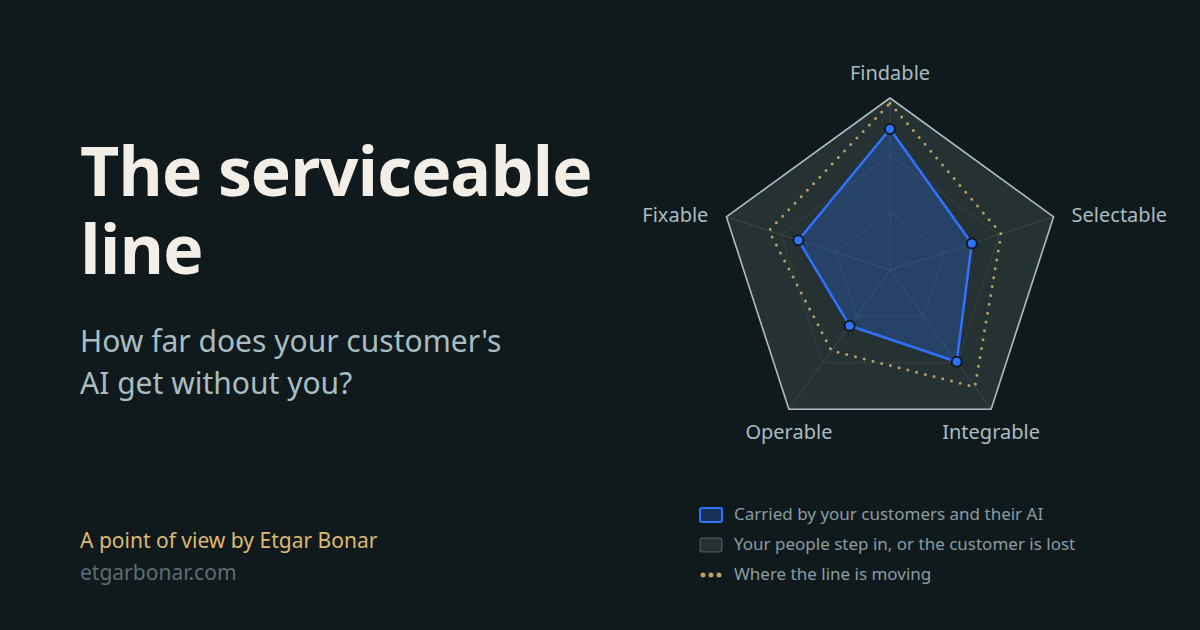
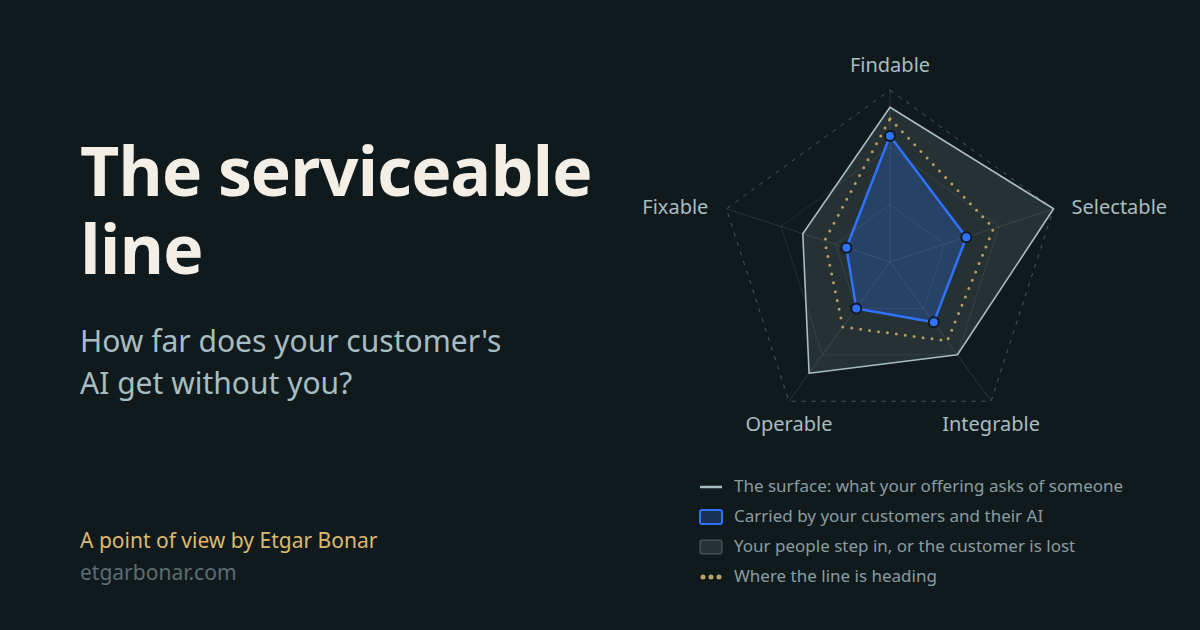
Serviceable line: one hero shape on both pages and the card, one legend
The main hero and card drew a perfect pentagon (a full surface) while the
shapes hero drew a different, lopsided offering without gold. All three now
draw the same offering from one HERO definition in build-line-shapes.py: an
uneven surface inside the dashed maximum, the blue line inside it, and the
gold outline, which is checked never to pass the surface.

Both heroes and the card carry the same four-item legend: the surface (what
your offering asks of someone), carried by your customers and their AI, your
people step in or the customer is lost, and where the line is heading. Gold
is "heading" rather than "moving" everywhere, to read as direction. Captions
rewritten to match; card served at ?v=7 with a new og:image:alt.

diff --git a/serviceable-line/index.html b/serviceable-line/index.html
@@ -25,12 +25,12 @@
   <meta property="og:title" content="The Serviceable Line: How Far Does Your Customer's AI Get Without You?">
   <meta property="og:description" content="How far does your customer's AI get without you? The serviceable line is how far your customers, and increasingly their AI, get with your offering on their own.">
   <meta property="og:url" content="https://etgarbonar.com/serviceable-line/">
-  <meta property="og:image" content="https://etgarbonar.com/assets/serviceable-line-card.png?v=6">
-  <meta property="og:image:alt" content="The Serviceable Line: How far does your customer's AI get without you? A pentagon with one spoke per layer, Findable, Selectable, Integrable, Operable and Fixable. The blue shape is how far your customers and their AI get on each; past it, your people step in or the customer is lost; a gold dotted outline shows where the line is moving. A point of view by Etgar Bonar">
+  <meta property="og:image" content="https://etgarbonar.com/assets/serviceable-line-card.png?v=7">
+  <meta property="og:image:alt" content="The Serviceable Line: How far does your customer's AI get without you? A five-spoke chart, one spoke per layer: Findable, Selectable, Integrable, Operable and Fixable. The solid outline is what the offering asks of someone on each layer; the blue shape is how far your customers and their AI get; past it, your people step in or the customer is lost; a gold dotted outline shows where the line is heading. A point of view by Etgar Bonar">
   <meta name="twitter:card" content="summary_large_image">
   <meta name="twitter:title" content="The Serviceable Line: How Far Does Your Customer's AI Get Without You?">
   <meta name="twitter:description" content="How far does your customer's AI get without you? The serviceable line is how far your customers, and increasingly their AI, get with your offering on their own.">
-  <meta name="twitter:image" content="https://etgarbonar.com/assets/serviceable-line-card.png?v=6">
+  <meta name="twitter:image" content="https://etgarbonar.com/assets/serviceable-line-card.png?v=7">
   <script type="application/ld+json">
   {
     "@context": "https://schema.org",
@@ -90,7 +90,7 @@
         </div>
         <figure class="line-diagram">
 <!-- shapes:main-hero:start -->
-          <svg viewBox="-296 -214 592 424" role="img" aria-label="An illustrative offering with all five layers in depth. Findable: long surface, almost all of it carried alone; Selectable: long surface, about half of it carried alone; Integrable: long surface, most of it carried alone; Operable: long surface, about half of it carried alone; Fixable: long surface, most of it carried alone. A gold dotted outline further out shows where the line is moving.">
+          <svg viewBox="-296 -214 592 424" role="img" aria-label="An illustrative offering. Findable: long surface, almost all of it carried alone; Selectable: long surface, about half of it carried alone; Integrable: long surface, most of it carried alone; Operable: long surface, about half of it carried alone; Fixable: medium surface, about half of it carried alone. A gold dotted outline further out shows where the line is heading.">
             <polygon class="ld-ring" points="0.0,-56.0 53.3,-17.3 32.9,45.3 -32.9,45.3 -53.3,-17.3"/>
             <polygon class="ld-ring" points="0.0,-112.0 106.5,-34.6 65.8,90.6 -65.8,90.6 -106.5,-34.6"/>
             <polygon class="ld-ring ld-max" points="0.0,-168.0 159.8,-51.9 98.7,135.9 -98.7,135.9 -159.8,-51.9"/>
@@ -99,14 +99,14 @@
             <line class="ld-spoke" x1="0" y1="0" x2="98.7" y2="135.9"/>
             <line class="ld-spoke" x1="0" y1="0" x2="-98.7" y2="135.9"/>
             <line class="ld-spoke" x1="0" y1="0" x2="-159.8" y2="-51.9"/>
-            <polygon class="ld-surface" points="0.0,-168.0 159.8,-51.9 98.7,135.9 -98.7,135.9 -159.8,-51.9"/>
-            <polygon class="ld-move" points="0.0,-163.0 108.6,-35.3 82.9,114.2 -57.3,78.8 -118.2,-38.4"/>
-            <polygon class="ld-line" points="0.0,-137.8 79.9,-26.0 65.2,89.7 -39.5,54.4 -89.5,-29.1"/>
-            <circle class="ld-vtx" cx="0.0" cy="-137.8" r="5"/>
-            <circle class="ld-vtx" cx="79.9" cy="-26.0" r="5"/>
-            <circle class="ld-vtx" cx="65.2" cy="89.7" r="5"/>
-            <circle class="ld-vtx" cx="-39.5" cy="54.4" r="5"/>
-            <circle class="ld-vtx" cx="-89.5" cy="-29.1" r="5"/>
+            <polygon class="ld-surface" points="0.0,-151.2 159.8,-51.9 65.8,90.6 -79.0,108.7 -85.2,-27.7"/>
+            <polygon class="ld-move" points="0.0,-140.0 101.2,-32.9 56.0,77.0 -46.1,63.4 -63.9,-20.8"/>
+            <polygon class="ld-line" points="0.0,-123.2 74.6,-24.2 42.8,58.9 -32.9,45.3 -42.6,-13.8"/>
+            <circle class="ld-vtx" cx="0.0" cy="-123.2" r="5"/>
+            <circle class="ld-vtx" cx="74.6" cy="-24.2" r="5"/>
+            <circle class="ld-vtx" cx="42.8" cy="58.9" r="5"/>
+            <circle class="ld-vtx" cx="-32.9" cy="45.3" r="5"/>
+            <circle class="ld-vtx" cx="-42.6" cy="-13.8" r="5"/>
             <text class="ld-name" x="0.0" y="-186.0" text-anchor="middle">Findable</text>
             <text class="ld-name" x="177.8" y="-46.9" text-anchor="start">Selectable</text>
             <text class="ld-name" x="98.7" y="165.9" text-anchor="middle">Integrable</text>
@@ -115,11 +115,12 @@
           </svg>
 <!-- shapes:main-hero:end -->
           <ul class="ld-legend">
+            <li class="ld-key-surface">The surface: what your offering asks of someone</li>
             <li class="ld-key-line">Carried by your customers and their&nbsp;AI</li>
             <li class="ld-key-gap">Your people step in, or the customer is lost</li>
-            <li class="ld-key-move">Where the line is moving</li>
+            <li class="ld-key-move">Where the line is heading</li>
           </ul>
-          <p class="ld-note">Illustrative, for an offering with all five layers in depth. Not every offering has them: <a href="/serviceable-line/shapes/">see the shape of the line</a>. Each axis is one layer: Findable, Selectable, Integrable, Operable, Fixable. The blue shape is the serviceable line: how far your customers, and increasingly their AI, get with your offering on their own. Outside it, your people step in or the customer is lost. The gold marks the direction the line is moving.</p>
+          <p class="ld-note">Illustrative. Each axis is one layer: Findable, Selectable, Integrable, Operable, Fixable. The solid outline is what this offering asks of someone on each layer, and no two offerings ask the same: <a href="/serviceable-line/shapes/">see the shape of the line</a>. The blue shape is the serviceable line: how far your customers, and increasingly their AI, get with your offering on their own. Past it, your people step in or the customer is lost. The gold marks where the line is heading.</p>
         </figure>
       </header>
 

diff --git a/serviceable-line/shapes/index.html b/serviceable-line/shapes/index.html
@@ -77,7 +77,7 @@
         </div>
         <figure class="line-diagram shape-hero">
 <!-- shapes:hero:start -->
-          <svg viewBox="-296 -214 592 424" role="img" aria-label="An illustrative offering. Findable: long surface, almost all of it carried alone; Selectable: long surface, about half of it carried alone; Integrable: medium surface, most of it carried alone; Operable: long surface, about half of it carried alone; Fixable: medium surface, about half of it carried alone.">
+          <svg viewBox="-296 -214 592 424" role="img" aria-label="An illustrative offering. Findable: long surface, almost all of it carried alone; Selectable: long surface, about half of it carried alone; Integrable: long surface, most of it carried alone; Operable: long surface, about half of it carried alone; Fixable: medium surface, about half of it carried alone. A gold dotted outline further out shows where the line is heading.">
             <polygon class="ld-ring" points="0.0,-56.0 53.3,-17.3 32.9,45.3 -32.9,45.3 -53.3,-17.3"/>
             <polygon class="ld-ring" points="0.0,-112.0 106.5,-34.6 65.8,90.6 -65.8,90.6 -106.5,-34.6"/>
             <polygon class="ld-ring ld-max" points="0.0,-168.0 159.8,-51.9 98.7,135.9 -98.7,135.9 -159.8,-51.9"/>
@@ -86,13 +86,14 @@
             <line class="ld-spoke" x1="0" y1="0" x2="98.7" y2="135.9"/>
             <line class="ld-spoke" x1="0" y1="0" x2="-98.7" y2="135.9"/>
             <line class="ld-spoke" x1="0" y1="0" x2="-159.8" y2="-51.9"/>
-            <polygon class="ld-surface" points="0.0,-134.4 149.1,-48.5 46.1,63.4 -72.4,99.7 -53.3,-17.3"/>
-            <polygon class="ld-line" points="0.0,-112.0 79.9,-26.0 26.3,36.2 -36.2,49.8 -21.3,-6.9"/>
-            <circle class="ld-vtx" cx="0.0" cy="-112.0" r="5"/>
-            <circle class="ld-vtx" cx="79.9" cy="-26.0" r="5"/>
-            <circle class="ld-vtx" cx="26.3" cy="36.2" r="5"/>
-            <circle class="ld-vtx" cx="-36.2" cy="49.8" r="5"/>
-            <circle class="ld-vtx" cx="-21.3" cy="-6.9" r="5"/>
+            <polygon class="ld-surface" points="0.0,-151.2 159.8,-51.9 65.8,90.6 -79.0,108.7 -85.2,-27.7"/>
+            <polygon class="ld-move" points="0.0,-140.0 101.2,-32.9 56.0,77.0 -46.1,63.4 -63.9,-20.8"/>
+            <polygon class="ld-line" points="0.0,-123.2 74.6,-24.2 42.8,58.9 -32.9,45.3 -42.6,-13.8"/>
+            <circle class="ld-vtx" cx="0.0" cy="-123.2" r="5"/>
+            <circle class="ld-vtx" cx="74.6" cy="-24.2" r="5"/>
+            <circle class="ld-vtx" cx="42.8" cy="58.9" r="5"/>
+            <circle class="ld-vtx" cx="-32.9" cy="45.3" r="5"/>
+            <circle class="ld-vtx" cx="-42.6" cy="-13.8" r="5"/>
             <text class="ld-name" x="0.0" y="-186.0" text-anchor="middle">Findable</text>
             <text class="ld-name" x="177.8" y="-46.9" text-anchor="start">Selectable</text>
             <text class="ld-name" x="98.7" y="165.9" text-anchor="middle">Integrable</text>
@@ -102,10 +103,11 @@
 <!-- shapes:hero:end -->
           <ul class="ld-legend">
             <li class="ld-key-surface">The surface: what your offering asks of someone</li>
-            <li class="ld-key-line">The line: how far your customers and their&nbsp;AI get alone</li>
-            <li class="ld-key-gap">The gap: your people step in, or the customer is lost</li>
+            <li class="ld-key-line">Carried by your customers and their&nbsp;AI</li>
+            <li class="ld-key-gap">Your people step in, or the customer is lost</li>
+            <li class="ld-key-move">Where the line is heading</li>
           </ul>
-          <p class="ld-note">Illustrative. The dashed outline is the most any offering can ask on a layer. This one asks a lot on two layers and little on Fixable.</p>
+          <p class="ld-note">Illustrative, the same offering as on the main page. The dashed outline is the most any offering can ask on a layer; this one asks the most on Selectable and the least on Fixable. The gold marks where the line is heading.</p>
         </figure>
       </header>
 

diff --git a/scripts/build-line-shapes.py b/scripts/build-line-shapes.py
@@ -53,15 +53,14 @@ GROWTH = [
      DRILL[1]),
 ]
 
-# The main page hero: an offering with all five layers in depth, so the surface is full, plus the
-# gold outline for where the line is moving. Same drawing code as the sub-page, so the two heroes
-# follow one set of rules: dashed maximum, solid surface, grey gap, blue line.
-MAIN_LINE = [2.46, 1.5, 1.98, 1.2, 1.68]
-MAIN_HERO = ([3, 3, 3, 3, 3], MAIN_LINE, MAIN_LINE)
-MAIN_MOVE = [2.91, 2.04, 2.52, 1.74, 2.22]
-
-# the shapes hero introduces the idea, so it shows no work carried by others
-HERO = ([2.4, 2.8, 1.4, 2.2, 1.0], [2.0, 1.5, 0.8, 1.1, 0.4], [2.0, 1.5, 0.8, 1.1, 0.4])
+# One hero shape, used by the main page hero, the shapes page hero and the main social card, so
+# every hero drawing is the same offering: an uneven surface inside the dashed maximum, the blue
+# line inside it, and the gold outline for where the line is heading (never past the surface).
+HERO_SURFACE = [2.7, 3.0, 2.0, 2.4, 1.6]
+HERO_LINE = [2.2, 1.4, 1.3, 1.0, 0.8]
+HERO_MOVE = [2.5, 1.9, 1.7, 1.4, 1.2]
+HERO = (HERO_SURFACE, HERO_LINE, HERO_LINE)
+assert all(l <= m <= su for l, m, su in zip(HERO_LINE, HERO_MOVE, HERO_SURFACE))
 
 
 def pt(i, v, r):
@@ -110,7 +109,7 @@ def svg(name, surface, line, carried, *, prefix, r, viewbox, font_gap, old=None,
     p = prefix
     label = describe(name, surface, line, carried)
     if move:
-        label += " A gold dotted outline further out shows where the line is moving."
+        label += " A gold dotted outline further out shows where the line is heading."
     out = [f'<svg viewBox="{viewbox}" role="img" aria-label="{label}">']
     for f in (1, 2):
         out.append(f'  <polygon class="{p}-ring" points="{poly([f] * 5, r)}"/>')
@@ -163,14 +162,13 @@ HERO_BOX = dict(prefix="ld", r=168, viewbox="-296 -214 592 424", font_gap=18)
 def blocks():
     return {
         PAGE: {
-            "hero": svg("An illustrative offering", *HERO, **HERO_BOX),
+            "hero": svg("An illustrative offering", *HERO, move=HERO_MOVE, **HERO_BOX),
             "grid": grid(OFFERINGS),
             "segments": grid(SEGMENTS, "shape-grid shape-pair"),
             "growth": grid(GROWTH, "shape-grid shape-pair"),
         },
         MAIN_PAGE: {
-            "main-hero": svg("An illustrative offering with all five layers in depth", *MAIN_HERO,
-                             move=MAIN_MOVE, **HERO_BOX),
+            "main-hero": svg("An illustrative offering", *HERO, move=HERO_MOVE, **HERO_BOX),
         },
     }
 
@@ -214,6 +212,7 @@ def legend_row(x, y, kind, text):
     swatch = {
         "line": f'<rect x="{x}" y="{y - 12}" width="22" height="14" rx="2" fill="{BLUE}" fill-opacity=".26" stroke="{BLUE}" stroke-width="2"/>',
         "gap": f'<rect x="{x}" y="{y - 12}" width="22" height="14" rx="2" fill="{MINT}" fill-opacity=".14" stroke="{MINT}" stroke-opacity=".4"/>',
+        "surface": f'<path d="M{x} {y - 5}H{x + 22}" stroke="{MINT}" stroke-width="2.5"/>',
         "move": f'<path d="M{x + 3} {y - 5}H{x + 21}" stroke="{GOLD}" stroke-width="5" stroke-linecap="round" stroke-dasharray="0 8" opacity=".85"/>',
     }[kind]
     return f'  {swatch}\n  <text x="{x + 34}" y="{y}" {FONT} font-size="17" fill="{MINT}" opacity=".8">{text}</text>'
@@ -221,10 +220,11 @@ def legend_row(x, y, kind, text):
 
 def main_card():
     body = "\n".join([
-        card_pentagon(890, 270, 172, MAIN_HERO[0], MAIN_HERO[1], move=MAIN_MOVE),
-        legend_row(700, 520, "line", "Carried by your customers and their AI"),
-        legend_row(700, 550, "gap", "Your people step in, or the customer is lost"),
-        legend_row(700, 580, "move", "Where the line is moving"),
+        card_pentagon(890, 262, 172, HERO_SURFACE, HERO_LINE, move=HERO_MOVE),
+        legend_row(700, 492, "surface", "The surface: what your offering asks of someone"),
+        legend_row(700, 522, "line", "Carried by your customers and their AI"),
+        legend_row(700, 552, "gap", "Your people step in, or the customer is lost"),
+        legend_row(700, 582, "move", "Where the line is heading"),
         f'  <text x="80" y="196" {FONT} font-size="68" font-weight="700" letter-spacing="-1" fill="{PAPER}">The serviceable</text>',
         f'  <text x="80" y="274" {FONT} font-size="68" font-weight="700" letter-spacing="-1" fill="{PAPER}">line</text>',
         f'  <text x="80" y="352" {FONT} font-size="30" fill="{MINT}">How far does your customer\'s</text>',
@@ -233,9 +233,9 @@ def main_card():
         f'  <text x="80" y="580" {FONT} font-size="21" fill="{MINT}" opacity=".5">etgarbonar.com</text>',
     ])
     return card_svg("The serviceable line",
-                    "A pentagon with one spoke per layer: Findable, Selectable, Integrable, Operable and Fixable. "
-                    "The blue shape is how far your customers and their AI get on each; past it, your people step in or the customer is lost; "
-                    "a gold dotted outline further out shows where the line is moving. How far does your customer's AI get without you? "
+                    "A five-spoke chart, one spoke per layer: Findable, Selectable, Integrable, Operable and Fixable. "
+                    "The solid outline is what the offering asks of someone on each layer; the blue shape is how far your customers and their AI get; "
+                    "past it, your people step in or the customer is lost; a gold dotted outline shows where the line is heading. How far does your customer's AI get without you? "
                     "A point of view by Etgar Bonar.", body)
 
 

diff --git a/serviceable-line/index.md b/serviceable-line/index.md
@@ -14,11 +14,12 @@ The serviceable line is how far your customers, and increasingly their AI, get w
 
 Published 29 August 2026 · Updated 3 October 2026 · 8 minute read
 
+- The surface: what your offering asks of someone
 - Carried by your customers and their AI
 - Your people step in, or the customer is lost
-- Where the line is moving
+- Where the line is heading
 
-Illustrative, for an offering with all five layers in depth. Not every offering has them: [see the shape of the line](https://etgarbonar.com/serviceable-line/shapes/). Each axis is one layer: Findable, Selectable, Integrable, Operable, Fixable. The blue shape is the serviceable line: how far your customers, and increasingly their AI, get with your offering on their own. Outside it, your people step in or the customer is lost. The gold marks the direction the line is moving.
+Illustrative. Each axis is one layer: Findable, Selectable, Integrable, Operable, Fixable. The solid outline is what this offering asks of someone on each layer, and no two offerings ask the same: [see the shape of the line](https://etgarbonar.com/serviceable-line/shapes/). The blue shape is the serviceable line: how far your customers, and increasingly their AI, get with your offering on their own. Past it, your people step in or the customer is lost. The gold marks where the line is heading.
 
 Customers have been getting further on their own for a decade: finding you, comparing you, connecting you, running the product, fixing it when it breaks. What is changing is who is doing it. Increasingly it is a machine. I spent most of those years on the seller's side of that shift, at Amazon, Taboola and Rapyd.
 

diff --git a/serviceable-line/shapes/index.md b/serviceable-line/shapes/index.md
@@ -15,10 +15,11 @@ The five layers are not the same size for every offering. A bag of rice has almo
 Published 3 October 2026 · 7 minute read
 
 - The surface: what your offering asks of someone
-- The line: how far your customers and their AI get alone
-- The gap: your people step in, or the customer is lost
+- Carried by your customers and their AI
+- Your people step in, or the customer is lost
+- Where the line is heading
 
-Illustrative. The dashed outline is the most any offering can ask on a layer. This one asks a lot on two layers and little on Fixable.
+Illustrative, the same offering as on the main page. The dashed outline is the most any offering can ask on a layer; this one asks the most on Selectable and the least on Fixable. The gold marks where the line is heading.
 
 Every offering asks something of the person buying it. Some ask almost nothing. Some ask a great deal, before the purchase and long after it.
 
